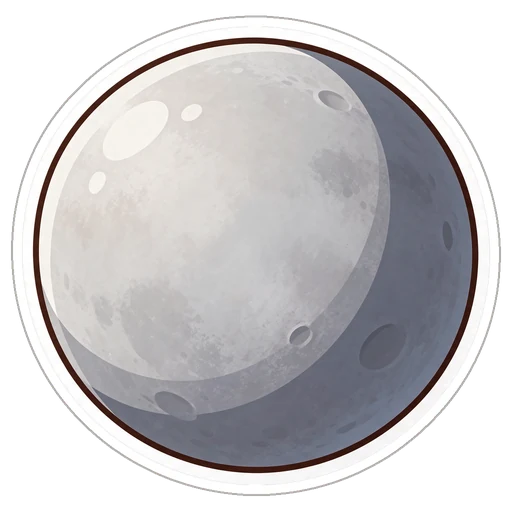
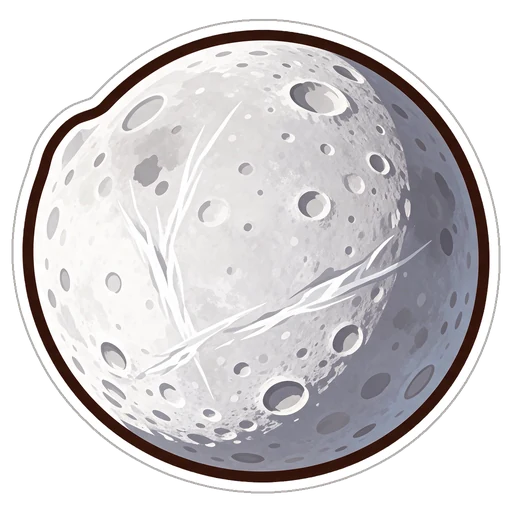
Corpos do espaço: troca os 6 corpos que só tinham ilustração oficial por corpos com foto oficial (#15)
* Novo álbum: Corpos do espaço (52 figurinhas)

Tema espaco com 52 corpos reais: estrelas, planetas, planetas anões, luas, asteroides, cometas, exoplanetas, objetos extremos, nebulosas e galáxias. Raridade (3 ultra e 5 raras) e verso com nome, localização, distância, tamanho, temperatura e curiosidade, conferidos em fontes oficiais (NASA, JPL, ESA, ESO). Cache do service worker v6. A migração do banco fica em migracoes/2026-11-13-album-espaco.sql.

Claude-Session: https://claude.ai/code/session_014sDEFwooAoyXychsffZ8Em

* Corpos do espaço: corrige dados do verso após conferência com fontes oficiais

- Io: "centenas" de vulcões (NASA não confirma "mais de 400")
- Europa: cerca do dobro da água dos oceanos da Terra (NASA)
- Sirius B: massa de cerca de 1 Sol
- Pulsar do Caranguejo: colher de chá com cerca de 1 bilhão de toneladas (NASA)
- SN 1987A: supernova mais brilhante vista desde 1604
- Galáxia do Redemoinho: Lord Rosse desenhou o redemoinho em 1845 (sem "primeira galáxia espiral")
- Pilares da Criação: 6.500 a 7.000 anos-luz; Kepler-452b: 1.400 a 1.800 anos-luz
- Jápeto 3,6 milhões de km, Miranda 130 mil km (JPL); Mimas 395 km (NASA)
- Deimos e Vesta: curiosidades sem fonte trocadas por fatos da NASA
- Plutão: cerca de -230 °C e gelo de nitrogênio e metano; Makemake: gelo de metano

Claude-Session: https://claude.ai/code/session_014sDEFwooAoyXychsffZ8Em

* Corpos do espaço: refaz 51 Pegasi b e Sagitário A* e ajusta textos sem fonte
[…]

diff --git a/espaco.js b/espaco.js
@@ -11,7 +11,7 @@ var FC=window.FC;
 var IC={"De onde vem o nome":"📖","Onde fica":"📍","Distância da Terra":"🚀","Distância do Sol":"☀","Tamanho":"📏","Temperatura":"🌡","Luas":"🌙","Descoberta":"🔭",
  "Cor":"🎨","Cores":"🎨","Tipo":"🏷","Companheira":"👯","Planetas":"🪐","Brilho":"✨","Sistema":"🔗","Um ano":"📅","Volta":"🔄","Visita":"🛰","Visitada":"🛰",
  "Cratera":"🕳","Dia":"⏱","Giro":"🌀","Rotação":"🌀","Superfície":"🧊","Massa":"⚖","Foto":"📸","Fotos":"📸","Origem":"💥","Vista em":"👀","Idade":"⏳",
- "Visível":"👁","Estrelas":"⭐","Berçário":"🍼","Material":"🌫","Próxima visita":"📆","Mancha":"🔴","Catálogo":"🗂","O que é":"❓","Centro":"💫","Também conhecida como":"🏷"};
+ "Visível":"👁","Estrelas":"⭐","Berçário":"🍼","Material":"🌫","Próxima visita":"📆","Mancha":"🔴","Catálogo":"🗂","O que é":"❓","Centro":"💫","Forma":"🥔","Anel":"⭕","Aglomerados":"🔵","Também conhecida como":"🏷","Também conhecidas como":"🏷"};
 
 var NOME="De onde vem o nome",ONDE="Onde fica",DT="Distância da Terra",DS="Distância do Sol",TAM="Tamanho",TEMP="Temperatura",LUAS="Luas",DESC="Descoberta";
 var J="Fica na região de Júpiter: de uns 590 a 965 milhões de km da Terra.";
@@ -53,8 +53,8 @@ var D=[
   "A região clara em forma de coração, vista pela sonda New Horizons em 2015, faz parte de uma superfície coberta de gelo de nitrogênio e metano. Plutão era o 9º planeta até 2006, quando virou planeta anão."],
  ["Ceres","Planeta anão",[[NOME,"Deusa romana da colheita e dos cereais: a palavra “cereal” vem do nome dela. Foi descoberto em 1801 por Giuseppe Piazzi."],[ONDE,"No cinturão de asteroides, entre Marte e Júpiter. É o único planeta anão do Sistema Solar interno."],[DT,"De uns 240 a 590 milhões de km."],[TAM,"939 km (1/4 da Lua)"],[TEMP,"−105 °C em média"],[LUAS,"Nenhuma"]],
   "Foi o primeiro planeta anão visitado por uma sonda: a Dawn, da NASA, chegou lá em 2015. Ceres tem grandes depósitos de sal."],
- ["Éris","Planeta anão",[[NOME,"Deusa grega da discórdia. Combina: a descoberta dela causou uma briga entre cientistas sobre o que é um planeta."],[ONDE,"No Sistema Solar externo, muito além de Netuno."],[DS,"Em média 10 bilhões de km (68× a distância da Terra)."],[TAM,"2.400 km (quase como Plutão)"],[TEMP,"−217 a −243 °C"],[LUAS,"1: Disnomia"]],
-  "Anunciada em 2005, era apelidada de “Xena”. Tem mais massa que Plutão e reflete 96% da luz que recebe. A descoberta dela levou à nova definição de planeta, em 2006."],
+ ["Dione","Lua de Saturno",[[NOME,"Dione foi uma titã (deusa) da mitologia grega, que Homero descreveu como mãe de Afrodite."],[ONDE,"Lua de Saturno, a uns 377 mil km do planeta. Dá uma volta em Saturno a cada 2,7 dias."],[DT,SA],[TAM,"1.123 km (raio de 562 km)"],[TEMP,"−186 °C"],[DESC,"Giovanni Cassini, 1684"]],
+  "Dione é feita de gelo em volta de um núcleo de rocha, que é cerca de 1/3 dela. As linhas claras e finas que se veem nas fotos são penhascos de gelo."],
  ["Réia","Lua de Saturno",[[NOME,"Réia era uma titã (deusa) da mitologia grega, filha de Urano e Gaia e mãe de vários deuses, como Zeus."],[ONDE,"Lua de Saturno, a 527 mil km do planeta. Fica mais longe de Saturno que Dione e Tétis."],[DT,SA],[TAM,"1.527 km (2ª maior de Saturno)"],[TEMP,"−174 °C ao sol, −220 °C na sombra"],[DESC,"Giovanni Cassini, 1672"]],
   "Réia é feita de cerca de 3/4 de gelo e 1/4 de rocha: uma bola de neve suja e cheia de crateras."],
  ["Tétis","Lua de Saturno",[[NOME,"Tétis era uma titã da mitologia grega, filha de Urano e Gaia e mãe dos rios e das Oceânides."],[ONDE,"Lua de Saturno, a uns 295 mil km do planeta."],[DT,SA],[TAM,"1.066 km (5ª maior de Saturno)"],[TEMP,"−187 °C"],[DESC,"Giovanni Cassini, 1684"]],
@@ -101,14 +101,14 @@ var D=[
  ["Cometa 67P","Cometa",[[NOME,"Leva o nome de Klim Churyumov e Svetlana Gerasimenko, astrônomos que a descobriram em 1969."],[ONDE,"Gira em volta do Sol, indo da órbita da Terra até perto da de Júpiter."],[DS,"De 1,2 a 5,7 vezes a distância da Terra ao Sol."],[TAM,"3,4 km, em dois lóbulos"],["Volta","A cada 6,4 anos"],["Visitada","Rosetta e Philae, 2014"]],
   "Foi o primeiro cometa orbitado e pousado por sondas. A Rosetta (ESA) chegou em 2014 e deixou o módulo Philae na superfície. Ela tem forma de patinho de borracha."],
  // Folha 4: exoplanetas, objetos extremos, nebulosas e galáxias
- ["Proxima b","Exoplaneta",[[NOME,"É o 1º planeta (“b”) achado em volta da estrela Proxima Centauri."],[ONDE,"Gira em volta de Proxima Centauri, na constelação de Centauro."],[DT,"4,24 anos-luz: é o exoplaneta mais próximo que se conhece."],[TAM,"Massa ≈ 1,07× a da Terra"],["Um ano","11,2 dias"],[DESC,"2016, pelo ESO"]],
-  "Fica na zona habitável, onde poderia haver água líquida, mas ninguém sabe se tem atmosfera. É 20 vezes mais perto da estrela do que a Terra do Sol. A imagem é uma ilustração artística."],
- ["TRAPPIST-1e","Exoplaneta",[[NOME,"TRAPPIST é o telescópio que achou o sistema; “e” é o 4º planeta da estrela."],[ONDE,"Constelação de Aquário. Faz parte de um sistema com 7 planetas rochosos."],[DT,"Cerca de 40 anos-luz."],[TAM,"0,92× a largura da Terra"],["Um ano","6,1 dias"],[DESC,"Anunciada em 2017"]],
-  "Os 7 planetas ficam mais perto da estrela do que Mercúrio do Sol. O Telescópio Webb estuda o sistema. A imagem é uma ilustração artística."],
- ["Kepler-452b","Exoplaneta",[[NOME,"Kepler é o telescópio espacial da NASA que o achou; 452 é a estrela e “b” é o 1º planeta."],[ONDE,"Constelação do Cisne, ao redor de uma estrela parecida com o Sol."],[DT,"Entre 1.400 e 1.800 anos-luz."],[TAM,"≈ 1,6× a largura da Terra"],["Um ano","385 dias"],[DESC,"2015, telescópio Kepler"]],
-  "Foi chamado de “primo da Terra”: fica na zona habitável de uma estrela parecida com o Sol, só que 1,5 bilhão de anos mais velha. A imagem é uma ilustração artística."],
- ["51 Pegasi b","Exoplaneta",[[NOME,"É o 1º planeta (“b”) da estrela 51 Pegasi, a 51ª catalogada na constelação de Pégaso."],[ONDE,"Constelação de Pégaso, ao redor de uma estrela parecida com o Sol."],[DT,"Cerca de 50 anos-luz."],[TAM,"≈ 0,5 massa de Júpiter"],["Um ano","4,2 dias"],[DESC,"1995, Mayor e Queloz"]],
-  "Foi o primeiro exoplaneta achado em volta de uma estrela parecida com o Sol, e rendeu o Nobel de Física de 2019. Fica 7 vezes mais perto da estrela do que Mercúrio do Sol: é um “Júpiter quente”. A imagem é uma ilustração artística."],
+ ["Hiperião","Lua de Saturno",[[NOME,"John Herschel sugeriu dar às luas de Saturno os nomes dos irmãos e irmãs de Cronos (o Saturno dos gregos). Hiperião era um titã."],[ONDE,"Lua de Saturno, a uns 1,5 milhão de km do planeta, numa órbita bem alongada."],[DT,SA],[TAM,"410 × 260 × 220 km"],["Forma","Batata cheia de buracos"],[DESC,"William Lassell, 1848"]],
+  "A superfície de Hiperião parece uma esponja ou um ninho de vespas. Ele gira de um jeito caótico, caindo e rolando sem direção certa enquanto dá voltas em Saturno."],
+ ["Ariel","Lua de Urano",[[NOME,"Ariel é uma personagem de “A Tempestade”, de Shakespeare, e de um poema de Alexander Pope. O nome foi dado por John Herschel."],[ONDE,"Lua de Urano, uma das cinco grandes. Dá uma volta em Urano a cada 2,5 dias."],[DT,"Fica na região de Urano: de uns 2,6 a 3,2 bilhões de km da Terra."],[TAM,"1.158 km (raio de 579 km)"],["Cor","Cinza claro: a mais brilhante das 5 grandes"],[DESC,"William Lassell, 1851"]],
+  "Ariel tem a superfície mais jovem das luas de Urano: poucas crateras grandes e muitas pequenas, cortadas por vales entre falhas, os chamados grábens."],
+ ["Nebulosa do Anel","Nebulosa planetária",[["Também conhecida como","M57, o 57º objeto do catálogo do astrônomo Charles Messier."],[ONDE,"Constelação da Lira, mais ou menos no meio entre duas estrelas da base da “lira”."],[DT,"Cerca de 2.000 anos-luz."],["O que é","Restos de uma estrela parecida com o Sol"],["Anel","Vermelho por fora, azul por dentro"],[DESC,"Antoine Darquier, 1779"]],
+  "O Hubble mostrou que o formato é mais complicado do que um anel: o gás azul do centro é uma estrutura em forma de bola de futebol americano que fura a rosca vermelha. Os nós escuros do bordo interno parecem raios de bicicleta."],
+ ["Galáxia do Sombreiro","Galáxia espiral",[["Também conhecida como","M104, o objeto nº 104 do catálogo de Messier. Parece um chapéu mexicano."],[ONDE,"Constelação de Virgem."],[DT,"Cerca de 28 milhões de anos-luz."],["Vista","De lado, quase de perfil"],["Aglomerados","Quase 2.000, 10× a Via Láctea"],[DESC,"Pierre Méchain, 1781"]],
+  "O miolo branco e brilhante é cercado por faixas grossas de poeira, onde nascem estrelas. No centro mora um buraco negro enorme, e a galáxia tem massa de cerca de 800 bilhões de Sóis."],
  ["Sagitário A*","Buraco negro",[[NOME,"Fica na direção da constelação de Sagitário. “A*” é o nome da forte fonte de rádio que existe lá."],[ONDE,"No centro da Via Láctea, a nossa galáxia."],[DT,"Entre 26.000 e 27.000 anos-luz."],[TAM,"Cabe na órbita de Mercúrio"],["Massa","4,3 milhões de Sóis"],["Foto","Primeira imagem: 2022"]],
   "Nem a luz escapa de um buraco negro. O anel brilhante da foto é gás quente em volta dele. Provar que ele existe rendeu o Nobel de Física de 2020 a Reinhard Genzel e Andrea Ghez."],
  ["Nebulosa do Caranguejo","Nebulosa · restos de supernova",[["Também conhecida como","M1, o 1º objeto do catálogo do astrônomo Charles Messier, que a confundiu com o cometa Halley."],[ONDE,"Constelação de Touro."],[DT,"Cerca de 6.500 anos-luz."],[TAM,"Cerca de 10 anos-luz de largura"],["Origem","Supernova vista em 1054"],["Centro","Pulsar: 30 voltas por segundo"]],
@@ -123,8 +123,8 @@ var D=[
   "É a região de nascimento de estrelas grande mais próxima da Terra. No centro há quatro estrelas jovens e quentes, o Trapézio, que fazem o gás brilhar."],
  ["Pilares da Criação","Nebulosa",[[NOME,"Têm esse nome porque dentro das colunas de gás e poeira estão nascendo estrelas."],[ONDE,"Na Nebulosa da Águia (M16), na constelação da Serpente."],[DT,"Entre 6.500 e 7.000 anos-luz."],[TAM,"Colunas de 4 a 5 anos-luz de altura"],["Material","Gás e poeira"],["Fotos","Hubble (1995) e Webb (2022)"]],
   "A luz que vemos dos pilares saiu de lá há mais de 6.000 anos. A foto do Hubble, de 1995, ficou famosa no mundo todo."],
- ["Via Láctea","Galáxia",[["O que é","A galáxia onde fica o Sistema Solar, com 100 a 400 bilhões de estrelas."],[ONDE,"É a nossa galáxia! O Sol fica a uns 26.000 anos-luz do centro dela."],[DT,"Estamos dentro dela. O centro fica a uns 26.000 anos-luz de nós."],[TAM,"≈ 100.000 anos-luz de largura"],["Estrelas","100 a 400 bilhões"],["Tipo","Espiral com uma barra"]],
-  "O Sistema Solar dá uma volta na galáxia a cada uns 230 milhões de anos. No centro mora o buraco negro Sagitário A*."],
+ ["Plêiades","Aglomerado de estrelas",[["Também conhecidas como","As Sete Irmãs, ou M45, o 45º objeto do catálogo de Messier."],[ONDE,"Constelação de Touro. Dá para ver a olho nu."],[DT,"Cerca de 445 anos-luz."],["Estrelas","Mais de mil, unidas pela gravidade"],["Cor","Azul-esbranquiçada"],[DESC,"1º a observar com telescópio: Galileu"]],
+  "Ninguém sabe quem descobriu as Plêiades, porque elas são vistas desde a Antiguidade. As faixas azuis do Hubble são poeira empurrada pela luz da estrela Merope."],
  ["Andrômeda","Galáxia",[["Também conhecida como","M31, o objeto nº 31 do catálogo do astrônomo Charles Messier."],[ONDE,"Na constelação de Andrômeda. É a grande galáxia mais próxima da Via Láctea."],[DT,"Cerca de 2,5 milhões de anos-luz."],[TAM,"Mais de 200.000 anos-luz"],["Estrelas","≈ 1 trilhão"],["Visível","A olho nu, no céu escuro"]],
   "É o objeto mais distante que dá para ver a olho nu: a luz que chega tem 2,5 milhões de anos. Ela e a Via Láctea estão se aproximando."],
  ["Galáxia do Redemoinho","Galáxia",[[NOME,"Os braços em espiral lembram um redemoinho (“whirlpool”, em inglês). M51 é o número 51 do catálogo de Messier."],[ONDE,"Constelação dos Cães de Caça."],[DT,"Cerca de 31 milhões de anos-luz."],["Companheira","Galáxia menor NGC 5195"],["Tipo","Espiral vista de frente"],[DESC,"Messier, 1773"]],

diff --git a/VERIFICACAO-ESPACO.md b/VERIFICACAO-ESPACO.md
@@ -1,6 +1,6 @@
 # Álbum "Corpos do espaço": registro de verificação
 
-Cada figurinha foi comparada lado a lado com uma imagem oficial (foto ou, quando não existe foto, ilustração oficial), e cada fato do verso foi conferido em página oficial. Este arquivo registra o resultado, item por item.
+Cada figurinha foi comparada lado a lado com uma foto oficial, e cada fato do verso foi conferido em página oficial. Este arquivo registra o resultado, item por item.
 
 ## Legenda das fontes do verso
 - **N** = NASA Science (páginas de fatos, "Namesake", Messier, Caldwell, exoplanetas)
@@ -14,8 +14,8 @@ Cada figurinha foi comparada lado a lado com uma imagem oficial (foto ou, quando
 
 ## Legenda do veredito visual
 - **bate** = a figurinha mostra o que a imagem oficial mostra (forma, cor, feições principais); o estilo é de desenho.
+- **ilustração** = não existe foto do disco da estrela; a comparação foi com a ilustração oficial (só Proxima Centauri).
 - **refeita** = divergia da imagem oficial e foi gerada de novo.
-- **ilustração** = não existe foto; a comparação foi com a ilustração oficial, e o verso avisa que é ilustração.
 
 ## As 52 figurinhas
 
@@ -36,7 +36,7 @@ Cada figurinha foi comparada lado a lado com uma imagem oficial (foto ou, quando
 | 13 | Netuno | NASA, Voyager 2 | refeita (anéis fortes demais) | N, F, J |
 | 14 | Plutão | NASA, New Horizons | refeita (coração perfeito demais) | N, F, J |
 | 15 | Ceres | NASA, Dawn (PIA21079) | bate | N, F, J |
-| 16 | Éris | NASA PIA17307 (ilustração) | refeita; ilustração | N, J, ESO |
+| 16 | Dione | NASA, Cassini (disco meio iluminado) | bate (cinza-claro craterado com linhas claras de penhascos de gelo) | N, J |
 | 17 | Réia | NASA, Cassini PIA12648 | bate | N, J |
 | 18 | Tétis | NASA, Cassini PIA08400 | bate | N, J |
 | 19 | Lua | NASA | bate | N, F, J |
@@ -59,10 +59,10 @@ Cada figurinha foi comparada lado a lado com uma imagem oficial (foto ou, quando
 | 36 | Cometa Halley | ESA, Giotto | bate | N, J |
 | 37 | Cometa Hale-Bopp | NASA/Hubble | bate | N, J |
 | 38 | Cometa 67P | ESA, Rosetta | bate | N, J |
-| 39 | Proxima b | ESO (ilustração) | ilustração, bate | X, N |
-| 40 | TRAPPIST-1e | NASA (ilustração) | refeita; ilustração | X, N |
-| 41 | Kepler-452b | NASA (ilustração) | ilustração, bate | X, N |
-| 42 | 51 Pegasi b | NASA (ilustração) | refeita; ilustração | X, N |
+| 39 | Hiperião | NASA, Cassini (cor falsa) | bate (batata cheia de buracos, como esponja) | N, J |
+| 40 | Ariel | NASA, Voyager 2 | bate (cinza-claro com cânions e vales) | N, J |
+| 41 | Nebulosa do Anel | NASA/ESA Hubble (M57) | bate (anel vermelho por fora, azul por dentro, miolo azul-verde) | N |
+| 42 | Galáxia do Sombreiro | NASA/Hubble (M104) | bate (de perfil, miolo branco, faixa escura fina) | N |
 | 43 | Sagitário A* | EHT / ESO eso2208 | refeita (agora só o anel e o centro escuro) | N, E |
 | 44 | Nebulosa do Caranguejo | NASA/ESA Hubble (mosaico) | bate | N, C |
 | 45 | Nebulosa da Hélice | NASA/Hubble | bate | N |
@@ -70,7 +70,7 @@ Cada figurinha foi comparada lado a lado com uma imagem oficial (foto ou, quando
 | 47 | Quasar 3C 273 | NASA/ESA Hubble | bate | N, S |
 | 48 | Nebulosa de Órion | NASA/ESA Hubble | bate | N |
 | 49 | Pilares da Criação | NASA/ESA Hubble e Webb | bate | N |
-| 50 | Via Láctea | NASA/JPL PIA19341 (ilustração) | ilustração, bate (vista inclinada) | N |
+| 50 | Plêiades | NASA/Hubble (M45) | bate (estrelas azul-esbranquiçadas com filetes azuis de poeira) | N |
 | 51 | Andrômeda | NASA | bate | N |
 | 52 | Galáxia do Redemoinho | NASA/ESA Hubble | bate | N |
 
@@ -79,8 +79,10 @@ Cada figurinha foi comparada lado a lado com uma imagem oficial (foto ou, quando
 - **Eros** (26,7 milhões de km em 31/01/2012) e **Halley** (62,4 milhões de km em 11/04/1986): lidos do JPL Horizons.
 - **Hale-Bopp** (1,315 UA, 197 milhões de km): página oficial do JPL.
 
-## Figurinhas retiradas por não terem imagem oficial utilizável
-Haumea, Makemake, Pulsar do Caranguejo e Sirius B saíram do álbum (PR #11) e foram trocadas por Réia, Tétis, Nebulosa do Caranguejo e Nebulosa da Hélice, que têm foto oficial. Com isso, as 52 figurinhas têm foto ou ilustração oficial para comparação.
+## Figurinhas trocadas por não terem foto oficial
+- **PR #11:** Haumea, Makemake, Pulsar do Caranguejo e Sirius B (sem imagem utilizável) deram lugar a Réia, Tétis, Nebulosa do Caranguejo e Nebulosa da Hélice.
+- **Este PR:** Éris, Proxima b, TRAPPIST-1e, Kepler-452b, 51 Pegasi b e Via Láctea (só tinham ilustração oficial) deram lugar a Dione, Hiperião, Ariel, Nebulosa do Anel, Galáxia do Sombreiro e Plêiades, que têm foto oficial.
+Com isso, as 52 figurinhas têm foto oficial para comparação.
 
 ## Origens de nomes que foram retiradas do verso por falta de fonte oficial
 Io, Calisto, Lua, Via Láctea, Andrômeda, Sirius e Polaris.
